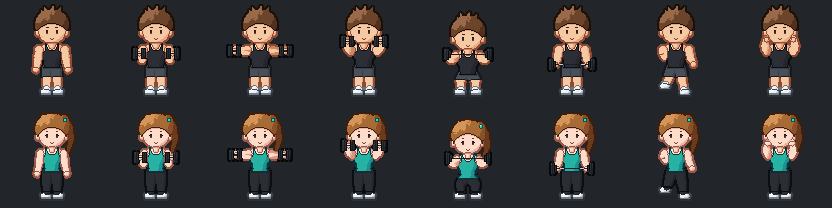
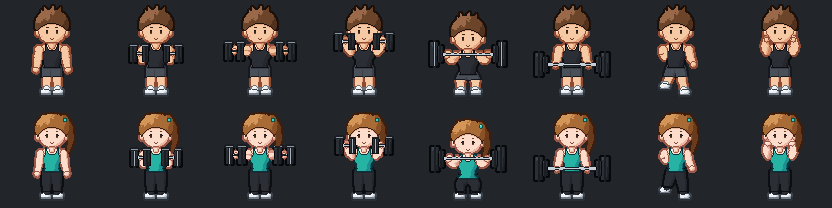
ダンベル・バーベルを大きくして見分けやすく
肩が最大級に育つと持ち物が埋もれて見分けがつかなかったため。

- 持ち物の倍率を肩の大きさに連動（上限2.2→3.4倍、伸び率も上げる）
- バーベル: 手の外まで長く伸ばし、両端のプレートを大きく2枚重ねに
- ダンベル: プレートを厚く高くし、間隔を広げて「短い」形を強調
- シャフトの太さだけは控えめに伸ばして板に見えないように
- ショルダープレスは手をもう少し外へ（頭にかぶらないように）

diff --git a/js/art/character.js b/js/art/character.js
@@ -46,7 +46,7 @@ const POSE_DEF = {
   stand: {},
   curl: { arm: (s) => [2.4, 20, 7, 4], prop: 'dumbbell' },
   raise: { arm: (s) => [13, 2, 25, -1], prop: 'dumbbell' },
-  press: { arm: (s) => [9, -7, 7, -20], prop: 'dumbbell' },
+  press: { arm: (s) => [9, -7, 12, -20], prop: 'dumbbell' },
   squat: { arm: (s) => [10, 6, 15, -5], prop: 'barbellBack', drop: 13, leg: 'squat' },
   row: { arm: (s) => [4, 18, 7, 26], prop: 'barbellHold' },
   run: { arm: (s) => (s < 0 ? [-2, 13, 3, 1] : [4, 16, 9, 25]), leg: 'run' },
@@ -265,7 +265,11 @@ export function drawCharacter(look, kind = 'detail') {
     return { s, jx, ex: jx + s * dex, eY: 91 + dey + dropY, wx: jx + s * dwx, wY: 91 + dwy + dropY };
   });
   const armFar = Math.max(...armPts.map((a) => Math.abs(a.wx - 96) + g.armR + 8));
-  const propFar = pose.prop === 'barbellUp' || pose.prop === 'barbellBack' ? g.jointX + 26 : pose.prop ? armFar + 6 : 0;
+  const propK = Math.min(3.4, 1 + (g.mult - 1) * 0.6); // 肩が大きいほど持ち物も大きく
+  const handFar = Math.max(...armPts.map((a) => Math.abs(a.wx - 96)));
+  const barHalf = Math.max(58 * Math.sqrt(propK), handFar + 24 * propK); // バーベルの長さ（片側）
+  const propFar = pose.prop === 'barbellBack' || pose.prop === 'barbellUp' || pose.prop === 'barbellHold' ? barHalf + 8 * propK
+    : pose.prop ? handFar + 19 * propK : 0;
   const half = Math.max(g.jointX + g.dRx, g.jointX + 5.6 + g.armR + 6, armFar, propFar) + 3; // 中心から一番外まで（設計座標）
   const pad = half > 95 ? Math.ceil(((half - 95) * res) / 192 / 2) * 2 : 0;
   const S = new Surface(res, pad);
@@ -537,23 +541,29 @@ export function drawCharacter(look, kind = 'detail') {
   // 小さく表示しても何を持っているか分かるよう、シャフトは細く明るく、プレートは大きく濃くする
   const BAR = ['#1a1d22', '#8e98a4', '#aab3be', '#c6ced7', '#eef2f6'];
   const PLATE = ['#07080a', '#15181c', '#1e2228', '#2b3037', '#3c444e'];
+  // ダンベル: 短いシャフトの両端に厚いプレート（バーベルとの違いは「短さ」で出す）
   const dumbbell = (x, y) => {
-    S.paint(Rows(x, y - 1.8, y + 1.8, () => 5.5), BAR, 'db' + x, { hl: false, flat: 3 });
+    const k = propK, ks = Math.sqrt(propK); // シャフトの太さは控えめに伸ばす
+    S.paint(Rows(x, y - 2.6 * ks, y + 2.6 * ks, () => 8.5 * k), BAR, 'db' + x, { hl: false, flat: 3 });
     for (const d of [-1, 1]) {
-      S.paint(Rows(x + d * 8, y - 10.5, y + 10.5, () => 4.6), PLATE, 'dbp' + x + d); // 角のある大きなプレート
-      S.paint(Rows(x + d * 8, y - 10.5, y + 10.5, () => 1.6), BAR, 'dbs' + x + d, { flat: 2 }); // 中央の明るい線で輪郭を出す
+      S.paint(Rows(x + d * 11 * k, y - 15 * k, y + 15 * k, () => 6.2 * k), PLATE, 'dbp' + x + d);
+      S.paint(Rows(x + d * 11 * k, y - 15 * k, y + 15 * k, () => 2 * k), BAR, 'dbs' + x + d, { flat: 2 });
+      S.paint(Rows(x + d * 11 * k, y - 15 * k, y - 11.5 * k, () => 6.2 * k), BAR, 'dbt' + x + d, { flat: 1 });
     }
   };
+  // バーベル: 手の外まで長く伸ばし、両端に大きなプレートを2枚
   const barbell = (y, halfLen) => {
-    S.paint(Rows(cx, y - 1.6, y + 1.6, () => halfLen), BAR, 'bar', { hl: false, flat: 3 });
+    const k = propK, ks = Math.sqrt(propK);
+    S.paint(Rows(cx, y - 2.4 * ks, y + 2.4 * ks, () => halfLen), BAR, 'bar', { hl: false, flat: 3 });
     for (const d of [-1, 1]) {
-      S.paint(Rows(cx + d * (halfLen - 4), y - 11, y + 11, () => 4.2), PLATE, 'plate' + d);
-      S.paint(Rows(cx + d * (halfLen - 4), y - 11, y + 11, () => 1.4), BAR, 'plateS' + d, { flat: 2 });
-      S.paint(Rows(cx + d * (halfLen - 10), y - 7.5, y + 7.5, () => 3.4), PLATE, 'plate2' + d);
+      S.paint(Rows(cx + d * (halfLen - 6 * k), y - 21 * k, y + 21 * k, () => 6.8 * k), PLATE, 'plate' + d);
+      S.paint(Rows(cx + d * (halfLen - 6 * k), y - 21 * k, y + 21 * k, () => 2.2 * k), BAR, 'plateS' + d, { flat: 2 });
+      S.paint(Rows(cx + d * (halfLen - 16 * k), y - 14 * k, y + 14 * k, () => 5.2 * k), PLATE, 'plate2' + d);
+      S.paint(Rows(cx + d * (halfLen - 16 * k), y - 14 * k, y + 14 * k, () => 1.6 * k), BAR, 'plate2S' + d, { flat: 2 });
     }
   };
   // 背中側に担ぐバーベルは頭より先に描く（頭の後ろに回る）
-  if (pose.prop === 'barbellBack') barbell(jY - 3, g.jointX + 22);
+  if (pose.prop === 'barbellBack') barbell(jY - 3, barHalf);
 
   /* 頭 */
   S.xf = headXf;
@@ -591,7 +601,7 @@ export function drawCharacter(look, kind = 'detail') {
   S.xf = null;
 
   if (pose.prop === 'dumbbell') arms.forEach((a) => dumbbell(a.wx + a.s * 1.2, a.wY + 4));
-  if (pose.prop === 'barbellHold') barbell(arms[0].wY + 4, g.jointX + 20);
+  if (pose.prop === 'barbellHold') barbell(arms[0].wY + 4, barHalf);
 
   S.outline(kind === 'gym' ? 2 : 1);
   return { canvas: S.toCanvas(), shoulderWidth: g.shoulderWidth, res };

diff --git a/sw.js b/sw.js
@@ -1,5 +1,5 @@
 // オフラインでも開けるようにする。常にネットの最新を優先し、つながらない時だけ保存済みの控えを使う。
-const CACHE = 'kmg-v10';
+const CACHE = 'kmg-v11';
 const CORE = [
   './', './index.html', './css/app.css', './manifest.webmanifest',
   './js/app/main.js', './js/app/data.js', './js/app/exercises.js', './js/app/store.js', './js/app/logo.js', './js/app/cloud.js', './js/app/config.js',
